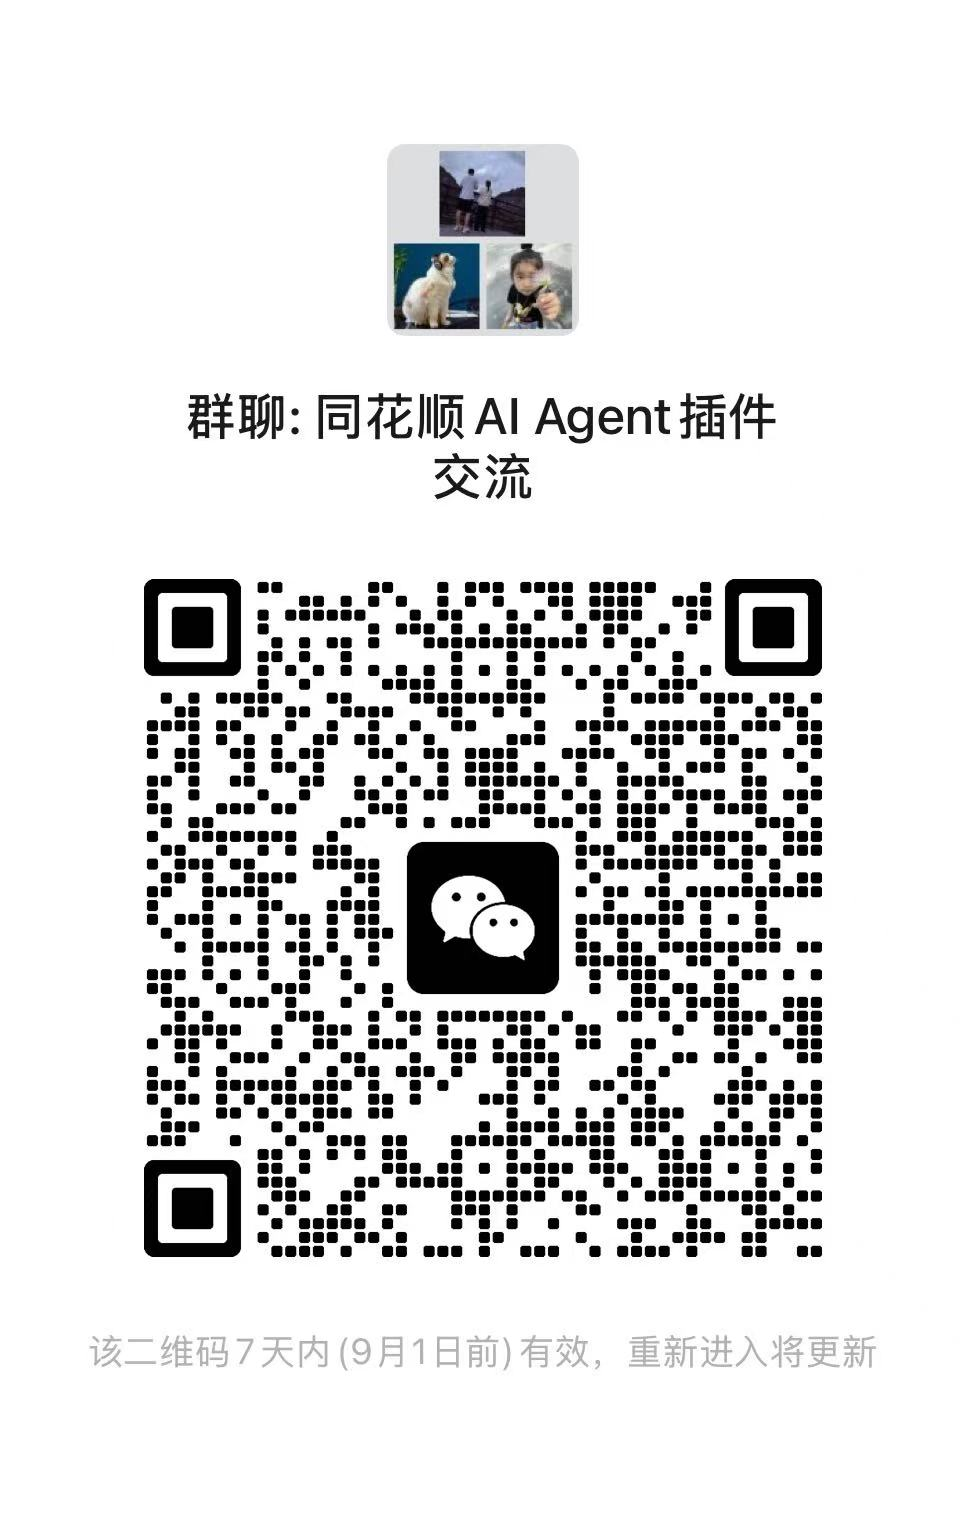
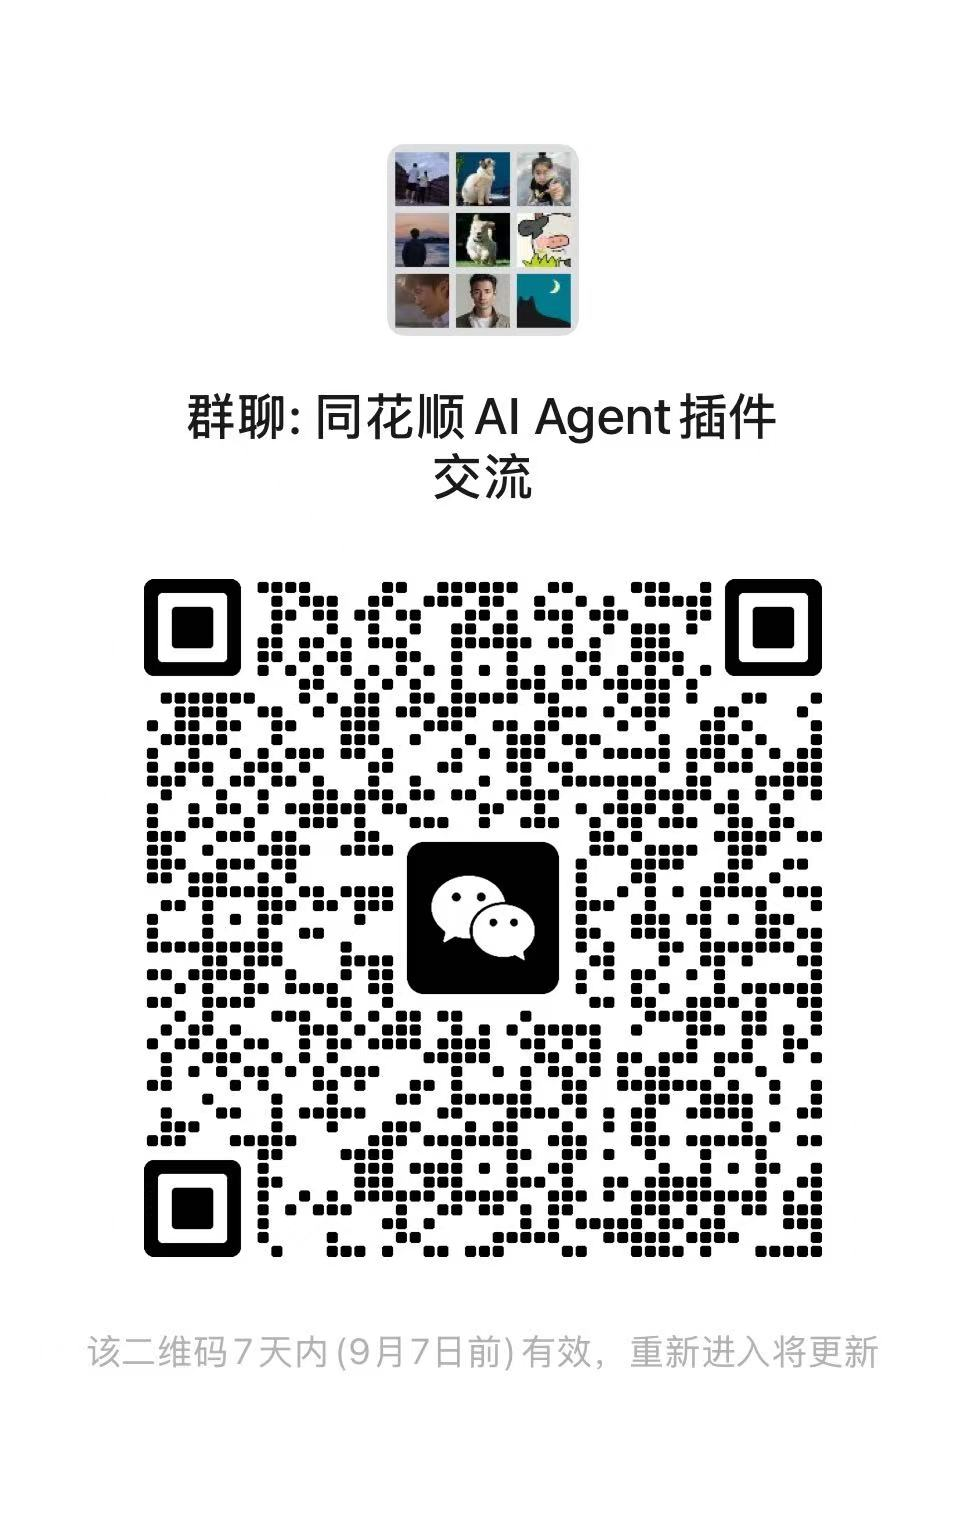
更新微信群二维码

diff --git a/README.md b/README.md
@@ -52,10 +52,10 @@
 ## 文档与交流
 
 - 本机接口文档：[127.0.0.1:17180/docs](http://127.0.0.1:17180/docs)
-- 微信群：同花顺 AI Agent 插件交流（当前二维码有效期至 2026 年 9 月 1 日；失效后请提交 Issue 提醒更新）
+- 微信群：同花顺 AI Agent 插件交流（当前二维码有效期至 2026 年 9 月 7 日；失效后请提交 Issue 提醒更新）
 
 <p align="center">
-  <img src="./assets/community/wechat-agent-group-qr.jpg" alt="同花顺 AI Agent 插件交流群二维码，有效期至 2026 年 9 月 1 日" width="280">
+  <img src="./assets/community/wechat-agent-group-qr.jpg" alt="同花顺 AI Agent 插件交流群二维码，有效期至 2026 年 9 月 7 日" width="280">
 </p>
 
 ## 获取本机 API 访问令牌
